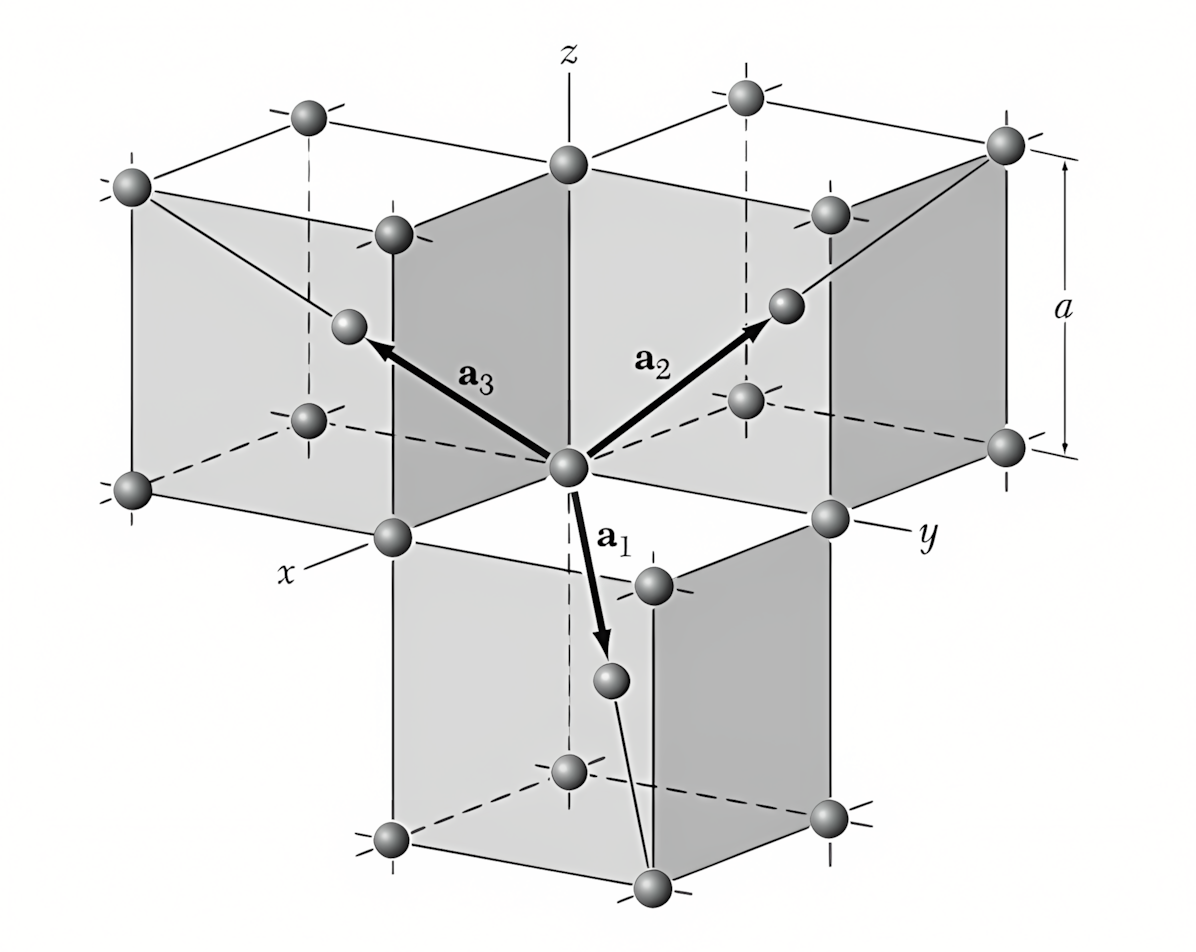
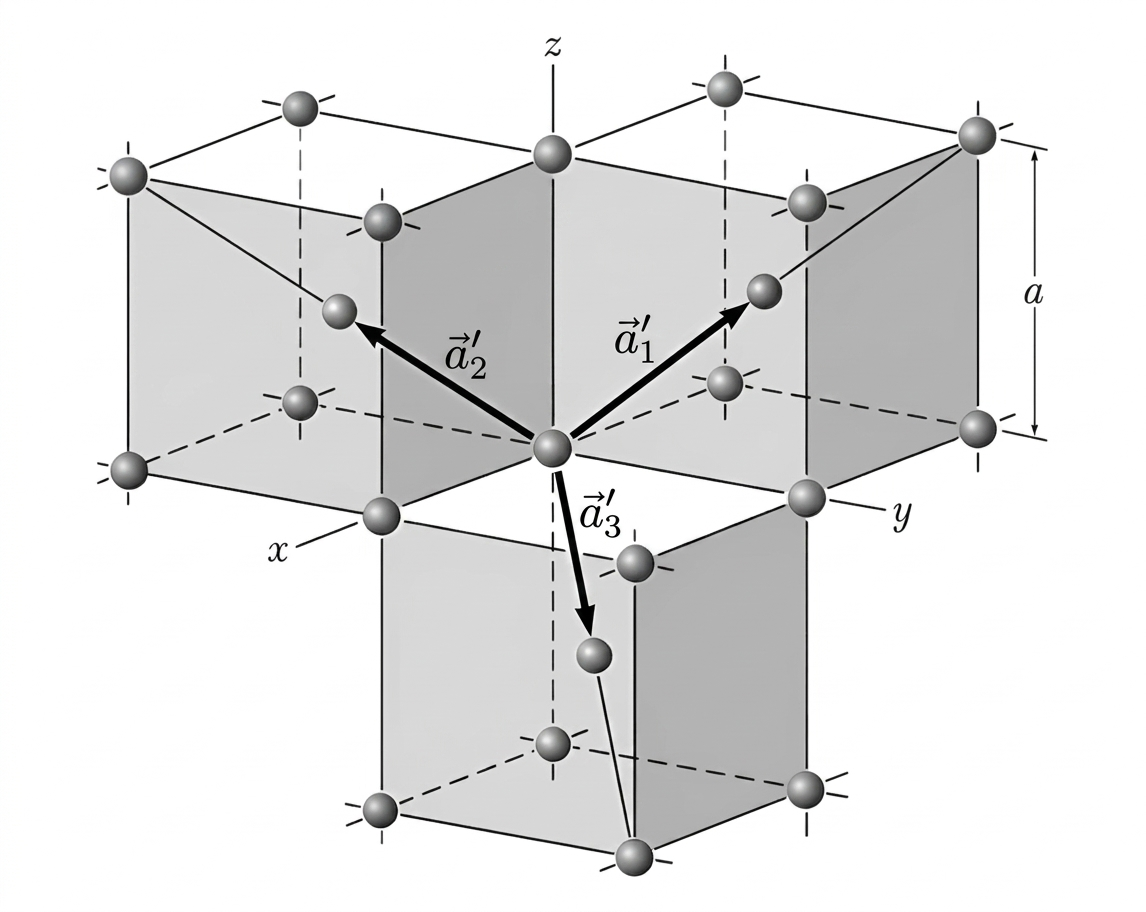
Fix images

diff --git a/chapters/chapter4.tex b/chapters/chapter4.tex
@@ -335,12 +335,6 @@ Esistono diverse metodologie per identificare una \textbf{cella primitiva}, la q
 A partire da una convenzionale cella cartesiana definita dai vettori \( \{\vec{a}_1, \vec{a}_2, \vec{a}_3\} \) (paralleli ai versori \( \vec{u}_x, \vec{u}_y, \vec{u}_z \) e di modulo \( a \)), è possibile ricavare le relazioni per i vettori primitivi nelle diverse configurazioni cubiche.
 
 
-\begin{figure}[H]
-    \centering
-    \includegraphics[width=0.7\textwidth]{figures/primitive_cell_fcc.png}
-    \caption{Rappresentazione della cella primitiva per il reticolo Cubico a Facce Centrate (FCC).}
-    \label{fig:primitive_cell_fcc}
-\end{figure}
 
 \textbf{Reticolo Cubico a Facce Centrate (FCC)} \\
 Nel sistema FCC, i vettori di base primitivi vengono costruiti assumendo un nodo della cella cartesiana come origine degli assi e tracciando i collegamenti verso i centri di tre facce adiacenti non complanari della cella stessa. Le espressioni che li definiscono sono:
@@ -359,9 +353,9 @@ Questa specifica cella primitiva racchiude al suo interno un solo nodo equivalen
 
 \begin{figure}[H]
     \centering
-    \includegraphics[width=0.7\textwidth]{figures/primitive_cell_bcc.png}
-    \caption{Rappresentazione della cella primitiva per il reticolo Cubico a Corpo Centrato (BCC).}
-    \label{fig:primitive_cell_bcc}
+    \includegraphics[width=0.7\textwidth]{figures/primitive_cell_fcc.png}
+    \caption{Rappresentazione della cella primitiva per il reticolo Cubico a Facce Centrate (FCC).}
+    \label{fig:primitive_cell_fcc}
 \end{figure}
 
 \textbf{Reticolo Cubico a Corpo Centrato (BCC)} \\
@@ -377,6 +371,13 @@ Così come per la struttura FCC, anche questa cella primitiva contiene un solo n
 \begin{equation}
     V_{\text{cell}} = \frac{a^3}{2}
 \end{equation}
+\begin{figure}[H]
+    \centering
+    \includegraphics[width=0.7\textwidth]{figures/primitive_cell_bcc.png}
+    \caption{Rappresentazione della cella primitiva per il reticolo Cubico a Corpo Centrato (BCC).}
+    \label{fig:primitive_cell_bcc}
+\end{figure}
+
 
 \subsubsection{Periodicità}Fissato un sistema di riferimento basato sui vettori generatori delle traslazioni \( \{\vec{a}_1, \vec{a}_2, \vec{a}_3\} \), è possibile definire un generico vettore del reticolo cristallino come:
 \begin{equation}